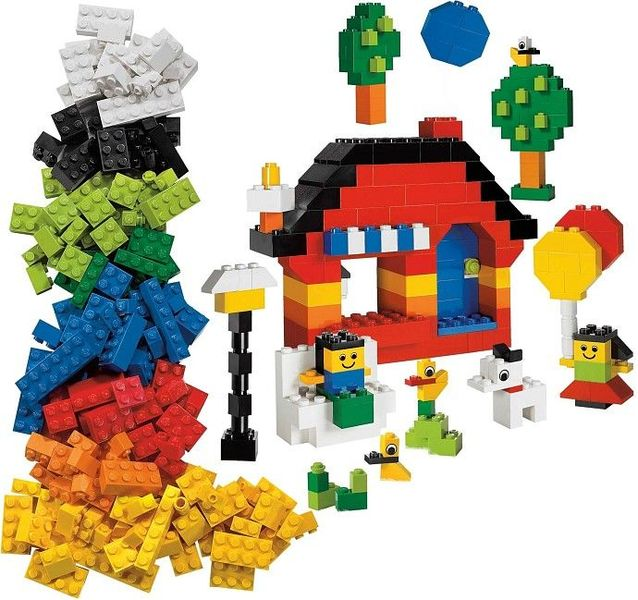
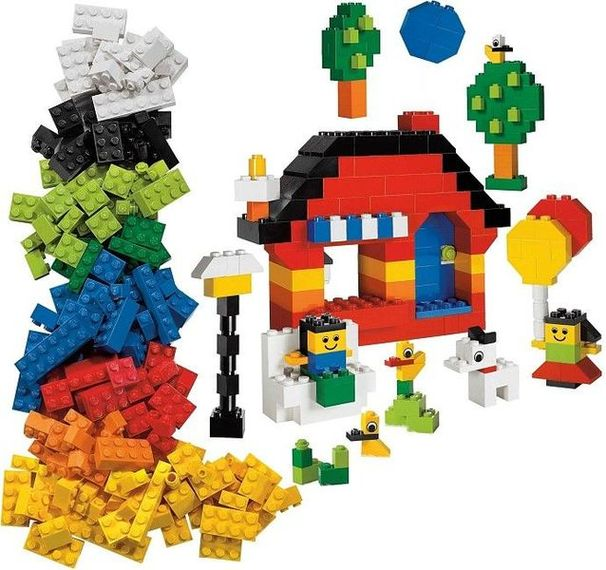
resize images

Changed region(s): [[0.5347, 0.5667, 0.5644, 0.6263], [0.6535, 0.5965, 0.6832, 0.6263], [0.5941, 0.7456, 0.6238, 0.7754]]

diff --git a/index.html b/index.html
@@ -68,7 +68,7 @@
         <!-- ===================================================================  -->
         <div class="step slide" data-x="1000" data-y="-2000">
             <p>What do we need to make them look like this?</p>
-            <div style="background: url(images/lego/lego-examples.jpg); width: 638px; height: 600px;"></div>
+            <div style="background: url(images/lego/lego-examples.jpg); width: 606px; height: 570px;"></div>
         </div>
 
         <!-- ===================================================================  -->
